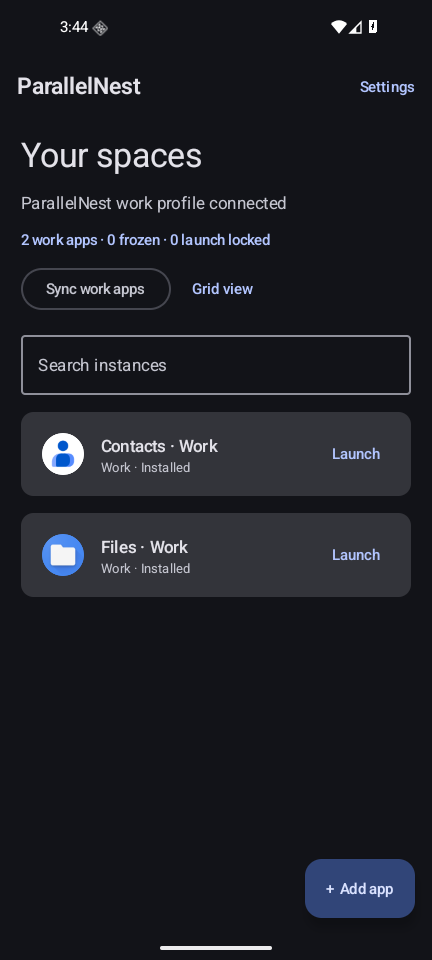
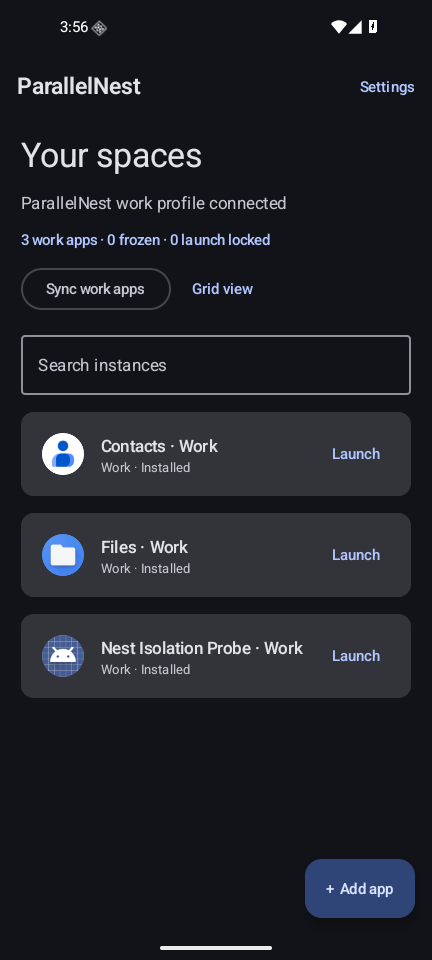
Document verified Bluetooth, lifecycle results and emulator diagnostics [skip ci]

Changed region(s): [[0.0301, 0.625, 0.963, 0.75], [0.1806, 0.0, 0.2407, 0.0312]]

diff --git a/docs/TEST-RESULTS.md b/docs/TEST-RESULTS.md
@@ -7,9 +7,9 @@ Evaluation date: 13 October 2026. This document distinguishes builds/API tests f
 | Check | Result / evidence |
 | --- | --- |
 | Rust host unit tests | 10 passed, 0 failed. Bounded input, strict schema/fields, malformed packages, duplicate identifiers/environment pairs, invalid profiles, serialization. Stable Rust 1.99.0 GNU host. |
-| Kotlin unit tests | 1 passed, 0 failed (`EnginePolicyTest`). Unverified virtual engine is unavailable and profile copy limits are disclosed. |
-| Local Android instrumentation, API 36 | Final baseline: **5 passed, 0 failed** (`OK (5 tests)`, 6.542 s in the last direct instrumentation invocation). JNI round-trip/duplicate rejection, encrypted Keystore/PIN retry-delay test, forged command/reply rejection and Compose interface. Earlier four-test XML results are under app/build/outputs/androidTest-results/connected/debug/. |
-| Cloud Android instrumentation, APIs 33, 34, 35, 36 | All four baseline jobs passed at commit `77bd7e5`. [Actions run 38370561909](https://github.com/shreeharsh-patil/Clone-App/actions/runs/38370561909). These were the four baseline API/security/UI tests, not full profile isolation tests. |
+| Kotlin unit tests | 3 passed, 0 failed (`EnginePolicyTest` and two `MetadataRestoreTest` checks). Restore replaces existing names/styles, preserves shortcut IDs, resets imported locks and handles stale ID collisions. Unverified virtual engine is unavailable. |
+| Local Android instrumentation, API 36 | Final baseline: **5 passed, 0 failed** (`OK (5 tests)`, 8.463 s). JNI round-trip/duplicate rejection, encrypted Keystore/PIN verification/retry-delay/reset test, forged command/reply rejection and Compose interface. Earlier XML results are under app/build/outputs/androidTest-results/connected/debug/. |
+| Cloud Android instrumentation, APIs 33, 34, 35, 36 | **All four jobs passed** at runtime/test commit `abff6fe`. [Final Actions run 38383222620](https://github.com/shreeharsh-patil/Clone-App/actions/runs/38383222620). APIs 33–35 exercised five baseline security/UI tests. API 36 exercised those five plus the full profile flow; the recovery deletion method is gated for a separate post-reboot invocation. |
 | Debug and release compilation | Both APK variants built locally and in the successful cloud baseline build. Release is unsigned without production signing secrets. |
 | Android lint | Debug/release: 0 errors. Version-update, explicit synchronous security preference writes and related noncritical warnings are retained in reports. Target SDK 36 is deliberate, not an obsolete-target workaround. |
 | Native ABIs | ARM64 and x86_64 libraries are included. ARM64 native library 451,544 bytes; x86_64 495,496 bytes at this build. |
@@ -40,19 +40,32 @@ Dedicated `ParallelNest_API36` Android 16 Google APIs x86_64 emulator, WHPX acce
 | Manager force-stop / emulator reboot | scripts/verify-device-recovery.py returned **RECOVERY_PASS** after checking both private values before and after force-stop/reboot. |
 | Deletion confirmation and isolation | Both manager data-loss dialog and Android uninstall dialog were exercised. Work package disappeared from user 10; personal package remained installed in user 0 and its private XML retained **PERSONAL_SENTINEL_2026**. |
 | Fresh reinstall and completion | Reinstalled through the final callback implementation. Manager immediately registered the real installed copy and reported “App installed in a separate work profile”, without manual synchronization. |
-| Final authenticated deletion test | RecoveryDeletionTest passed directly on the local emulator: **OK (1 test)**, 5.724 s. It verified a successful engine result, no available work probe afterward, and byte-for-byte unchanged original XML. |
+| Final authenticated deletion test | RecoveryDeletionTest passed directly on the local emulator after the UI/Bluetooth changes: **OK (1 test)**, 7.499 s. It verified a successful engine result, no available work probe afterward, and byte-for-byte unchanged original XML. |
+| Work Bluetooth policy | The signed work command cleared outgoing-sharing restriction and returned “Bluetooth sharing is allowed in the work profile.” Profile-default template restrictions are not confused with the effective current user's restrictions. |
+| Work app Bluetooth API/consent | Actual Nearby devices dialog accepted inside the work probe; it returned **Bluetooth API accessible · on · 0 paired devices**. dumpsys package showed BLUETOOTH_CONNECT granted=true for work user 10 and granted=false for personal user 0. Physical pairing and data transfer were not exercised. |
 
 The device test exposed Android 16 blocking a terminal activity PendingIntent after installation. Terminal callbacks now use a private broadcast receiver, while a foreground work Activity hosts consent. Activity result codes are deliberately ignored because Android's confirmation UI may return RESULT_CANCELED after an otherwise successful operation; PackageInstaller's terminal status is authoritative. These fixes were rebuilt and exercised with a fresh installation.
+
+The follow-up review reproduced Android 16 Settings automatically returning to PackageInstaller after the source-install toggle is enabled. Pressing Back immediately then cancels the installation. The UI test now targets the actual Compose checkable row and presses Back only if Settings remains open. A manual fresh probe installation using this path returned an authenticated successful result and registered the work copy.
+
+## Local UI and performance diagnostics
+
+Dashboard list/grid, the Bluetooth settings card and enlarged text (font scale 1.5) were exercised on the 432×960 emulator. Headers and cards scroll together; all three real work-app cards remained reachable. Search is retained across configuration changes, app names have bounded wrapping and suspended/paused launch controls reflect actual state.
+
+Three debug-build process-cold starts using `am force-stop --user 0` followed by `am start -W` reported TotalTime **969, 863 and 828 ms**. A subsequent `dumpsys meminfo --package` sample reported **76,867 KiB TOTAL PSS** for the personal dashboard process and **43,137 KiB TOTAL PSS** for the cached work-command process; memory varied across samples. After resetting gfxinfo and making eight up/down scroll pairs, the dashboard process recorded **240 frames, 16 deadline-janky frames (6.67%), p95 18 ms and p99 19 ms**. The inactive work process rendered no frames and is excluded from these frame statistics.
+
+These are debug/emulator diagnostics on a Windows/WHPX host with software graphics and three app cards, not a representative phone benchmark or proof of optimization. Battery consumption cannot be meaningfully measured with the emulated battery. Physical-device/release performance remains a stable-release gate.
 
 ## Full lifecycle execution gate
 
 The current API 36 CI test goes through system provisioning consent, installs the probe using the production work-engine implementation, launches it, writes **WORK_SENTINEL_2026**, and asserts the personal/work XML preferences contain only their own sentinel. It then suspends/resumes the work app, checks both values after manager force-stop and emulator reboot, reinstalls the manager APK to exercise update preservation, and deletes only the work copy while verifying the original preferences are unchanged.
 
-Local isolation/recovery/deletion have been executed as recorded above. Cloud full provisioning/isolation/freeze/resume passed in [run 38376338733](https://github.com/shreeharsh-patil/Clone-App/actions/runs/38376338733); its job then failed copying evidence because the destination folder did not exist. That packaging error was fixed; cloud post-test reboot/update/deletion remains pending until the corrected run completes. Test source: WorkProfileFlowTest, RecoveryDeletionTest and scripts/verify-device-recovery.py. Real screenshots/logs are uploaded as instrumentation-results-api-36. A successful baseline UI test is not substituted for this gate.
+The complete cloud gate **passed** in [final run 38383222620](https://github.com/shreeharsh-patil/Clone-App/actions/runs/38383222620), commit `abff6fe`: API 36 initial suite **6 passed, 0 failed, 1 gated skip**, followed by a successful force-stop/reboot recovery script and a separate deletion invocation **OK (1 test)**, 16.521 s. The manager and instrumentation APKs were reinstalled after reboot before deletion. The work probe's Nearby devices consent and Bluetooth API check ran inside the full flow. Test source: WorkProfileFlowTest, RecoveryDeletionTest and scripts/verify-device-recovery.py. Real screenshots/logs are uploaded as instrumentation-results-api-36. The earlier evidence-folder error, process termination and installer-consent test failures are not counted as passing runs; the corrected full run above is the release evidence.
 
 ## Not verified / remaining stable-release gates
 
 - Physical ARM64 phones, manufacturer Android variants and physical 16 KiB devices.
+- Physical Bluetooth pairing, BLE discovery, GATT/RFCOMM data transfer and third-party Bluetooth workflows. The emulator permission/API result is narrower than these tests.
 - Full profile provisioning/isolation on Android 13–15 (only baseline API/security/UI tests were run on those versions).
 - Three or more virtual copies: unsupported, engine disabled and not bundled.
 - Popular third-party sign-in, notification delivery, GMS dependencies, split/dynamic delivery edge cases and OEM system apps.

diff --git a/README.md b/README.md
@@ -104,6 +104,16 @@ The manual isolation protocol and execution evidence are in [docs/TEST-RESULTS.m
 
 ![Actual manager dashboard](docs/screenshots/dashboard.png)
 
+## Bluetooth in cloned apps
+
+ParallelNest allows outgoing Bluetooth sharing in its own work profile, including after an app update. Android otherwise blocks that sharing by default for managed profiles ([UserManager policy](https://developer.android.com/reference/android/os/UserManager#DISALLOW_BLUETOOTH_SHARING)). It does not change a different administrator's restrictions.
+
+Turn Bluetooth on and pair your device in Android settings. Resume the work profile and launch the work copy, then grant that app's **Nearby devices** permission when it asks. Each work app requests the Bluetooth permissions its features need; Android documents scanning, advertising and connecting separately ([Bluetooth permissions](https://developer.android.com/develop/connectivity/bluetooth/bt-permissions)). Open **Work app info & storage → Permissions** if permission was previously denied. A frozen app must be resumed before using Bluetooth.
+
+Settings offers **Check work Bluetooth access** and **Open Bluetooth settings**. The manager does not scan for devices, impersonate an adapter, grant runtime permissions silently or export work contacts. The separate first-party probe can request `BLUETOOTH_CONNECT` and read adapter state/paired-device count inside its work copy. On the local Android 16 emulator it returned **Bluetooth API accessible · on · 0 paired devices**, with permission granted to user 10 and denied to user 0. Physical pairing, BLE scanning, GATT/RFCOMM transfer and third-party Bluetooth behavior still need real hardware tests.
+
+![Work-profile Bluetooth API check](docs/screenshots/probe-bluetooth.png)
+
 ## CI and release signing
 
 `.github/workflows/android.yml` builds both Rust Android targets, runs Rust/Kotlin tests and lint, builds debug and unsigned release APKs, verifies native alignment, uploads artifacts, and runs Android instrumentation on API 33/34/35/36 emulators. A `v*` tag publishes a **prerelease** with APKs and corresponding source only after build and instrumentation jobs succeed. CI execution status is separate from local results.

diff --git a/docs/SECURITY-REVIEW.md b/docs/SECURITY-REVIEW.md
@@ -20,6 +20,8 @@ Merged debug manifest inspected: USE_BIOMETRIC, legacy USE_FINGERPRINT supplied 
 
 Debug builds clear the managed profile's debugging restriction for tests on devices where the user enabled USB debugging. Production builds retain the default policy. This difference is disclosed before provisioning. Unknown-source installation is permitted within this controller's own profile, and Android's source-install permission/confirmation is still explicitly handled by the user.
 
+Bluetooth sharing is allowed in this controller's own profile. No personal/global restriction or Bluetooth contact-sharing policy is changed. Guest apps request their own Nearby devices permissions; ParallelNest does not grant them silently. The manager adds no Bluetooth runtime permission. The independent test probe declares only BLUETOOTH_CONNECT and checks state/paired-device count after OS permission consent.
+
 ## Dependency records
 
 The OSV public batch API was queried for **132** locked dependency versions: 37 Cargo graph packages and 95 resolved Maven coordinates. **0 versions returned advisory records** at the recorded check time. Source: https://api.osv.dev/v1/querybatch; reproducible check: scripts/check-advisories.py. The raw local result is artifacts/advisory-check.json (an evaluation artifact, not a runtime upload feature).

diff --git a/docs/RELEASE-NOTES.md b/docs/RELEASE-NOTES.md
@@ -2,6 +2,8 @@ ParallelNest alpha: an original Kotlin/Compose work-profile manager with a Rust 
 
 Work profiles support one additional copy of a package. Experimental virtual containers are disabled. App compatibility varies; consult docs/TEST-RESULTS.md for the exact tested configuration. No physical-device/OEM claim is made without recorded execution evidence.
 
+Includes work-profile Bluetooth sharing, an access check and Android Bluetooth settings shortcut. Work apps must obtain their own Nearby devices consent. The emulator probe verified Bluetooth API access; physical pairing/data transfer remains untested. Dashboard scrolling, search retention, frozen-app actions and readable app names were improved. Metadata restore now restores names/styles for existing apps without changing shortcut IDs; authenticated PIN changes clear previous retry delays.
+
 Install `app-debug.apk` for evaluation. `app-release-unsigned.apk` cannot be installed until signed. If `ParallelNest-release.apk` is attached, it is signed using the repository owner's release secrets. Keep the same signing certificate for updates. Matching complete source is attached as `ParallelNest-source.zip`.
 
 Do not remove a work profile unless you intend to permanently delete all its app data. Manager backups include metadata only.
